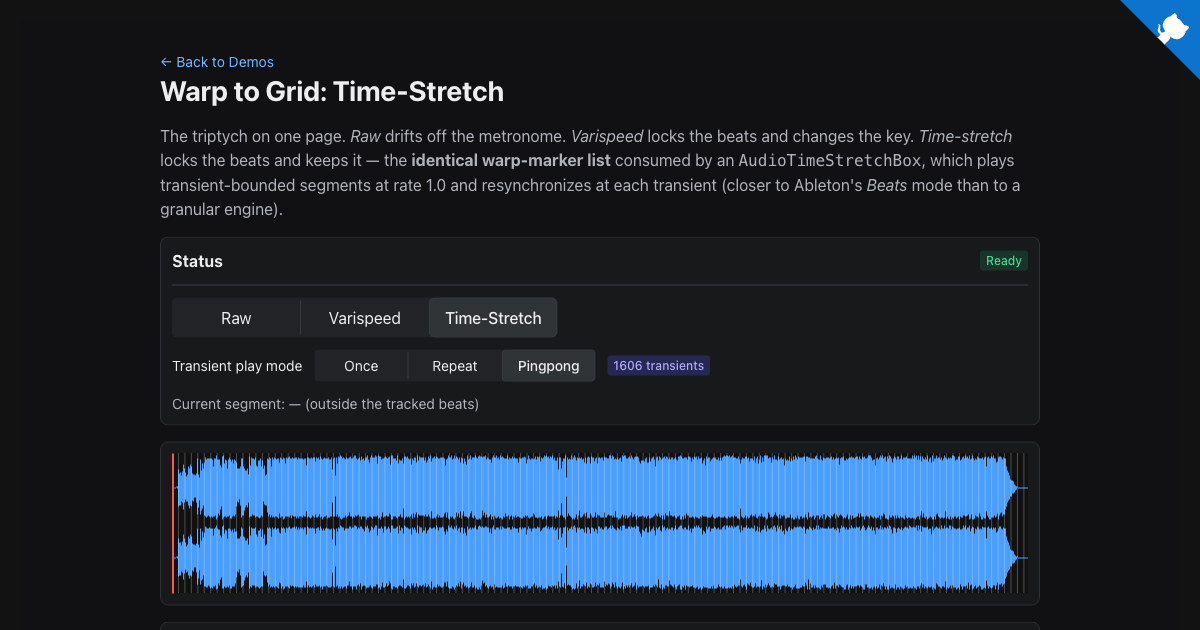
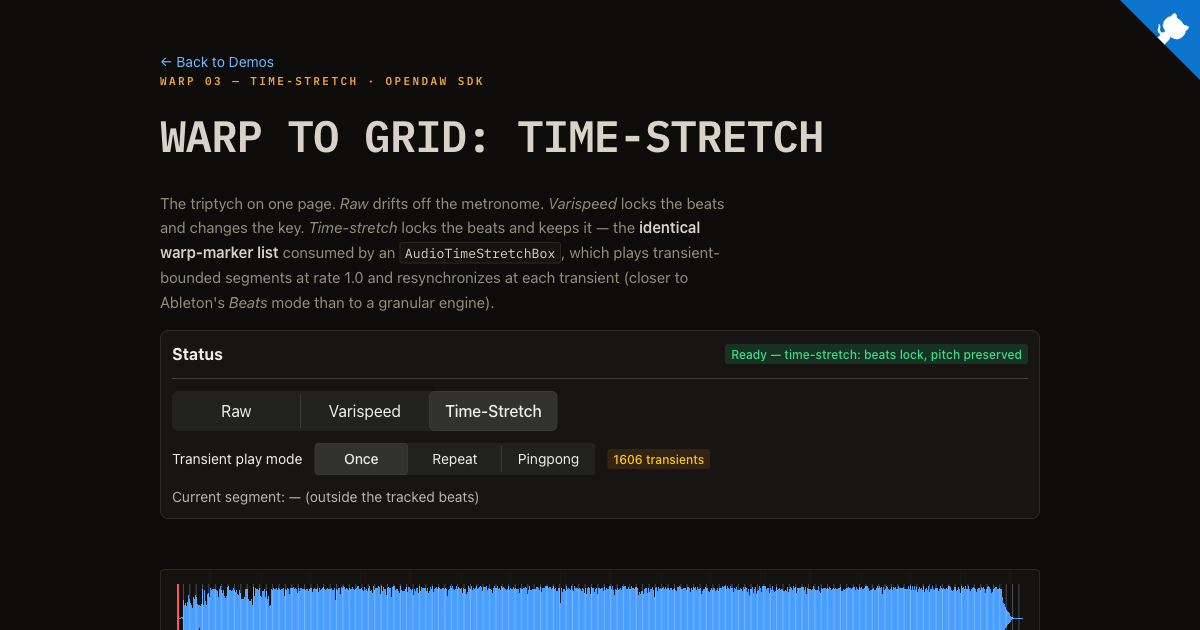
feat: apply mastering-console design to timestretch demo (wave 1)

Changed region(s): [[0.1233, 0.1206, 0.8633, 0.6937], [0.1233, 0.6937, 0.8633, 1.0], [0.8017, 0.3921, 0.8633, 0.4524]]

diff --git a/src/demos/warp/warp-timestretch-demo.tsx b/src/demos/warp/warp-timestretch-demo.tsx
@@ -39,9 +39,9 @@ import {
   Badge,
   Separator,
   SegmentedControl,
-  Link,
   Button,
 } from "@radix-ui/themes";
+import { CONSOLE_STYLES } from "@/lib/design/consoleTheme";
 
 const QUARTER = PPQN.Quarter; // 960
 const BAR = PPQN.fromSignature(4, 4); // 3840
@@ -248,13 +248,15 @@ function WarpTimestretchDemo() {
   }, [setup]);
 
   return (
-    <Theme appearance="dark" accentColor="iris">
+    <Theme appearance="dark" accentColor="amber" style={{ background: "var(--mc-bg)" }}>
+      <style>{CONSOLE_STYLES}</style>
       <Container size="3" py="6">
         <GitHubCorner />
         <BackLink />
         <Flex direction="column" gap="4">
-          <Heading size="7">Warp to Grid: Time-Stretch</Heading>
-          <Text color="gray">
+          <div className="mc-kicker">Warp 03 — Time-Stretch · OpenDAW SDK</div>
+          <h1 className="mc-title" style={{ fontSize: "clamp(28px, 4.5vw, 44px)" }}>WARP TO GRID: TIME-STRETCH</h1>
+          <p className="mc-intro">
             The triptych on one page. <em>Raw</em> drifts off the metronome.{" "}
             <em>Varispeed</em> locks the beats and changes the key.{" "}
             <em>Time-stretch</em> locks the beats and keeps it — the{" "}
@@ -262,7 +264,7 @@ function WarpTimestretchDemo() {
             <code>AudioTimeStretchBox</code>, which plays transient-bounded segments at
             rate 1.0 and resynchronizes at each transient (closer to Ableton&apos;s{" "}
             <em>Beats</em> mode than to a granular engine).
-          </Text>
+          </p>
           {error && (
             <Card>
               <Text color="red">{error}</Text>
@@ -335,7 +337,7 @@ function WarpTimestretchDemo() {
             </Flex>
           </Card>
           {setup && (
-            <Card>
+            <div className="mc-lattice-frame">
               <WarpWaveform
                 project={setup.project}
                 fileUuid={setup.fileUuid}
@@ -345,7 +347,7 @@ function WarpTimestretchDemo() {
                 repaintKey={repaintKey}
                 onError={setError}
               />
-            </Card>
+            </div>
           )}
           <Card>
             <Flex direction="column" gap="3" p="3">
@@ -372,24 +374,22 @@ function WarpTimestretchDemo() {
               </Flex>
             </Flex>
           </Card>
-          <Card>
-            <Flex direction="column" gap="2">
-              <Heading size="4">The thesis (warp-markers ch 09)</Heading>
-              <Text size="2" color="gray">
-                The warp math does not change. The same anchors driving{" "}
-                <Link href="/warp-varispeed-demo.html">varispeed</Link> drive this engine
-                untouched — swapping the stretch algorithm never moves a marker, which is
-                why Ableton lets you change a clip&apos;s warp <em>mode</em> without touching
-                its warp <em>markers</em>. Honest limits apply: transients can smear or
-                double under heavy stretching, and extreme rates expose segment looping.
-                The third direction —{" "}
-                <Link href="/warp-grid-follows-file-demo.html">bend the grid instead</Link>{" "}
-                — costs no DSP at all. See the{" "}
-                <Link href="/warp-demos.html">warp overview</Link> for which DAWs use each
-                approach and who reaches for it.
-              </Text>
-            </Flex>
-          </Card>
+          <section className="mc-anchors">
+            <h2 className="mc-anchors-head">The thesis (warp-markers ch 09)</h2>
+            <p>
+              The warp math does not change. The same anchors driving{" "}
+              <a href="/warp-varispeed-demo.html">varispeed</a> drive this engine
+              untouched — swapping the stretch algorithm never moves a marker, which is
+              why Ableton lets you change a clip&apos;s warp <em>mode</em> without touching
+              its warp <em>markers</em>. Honest limits apply: transients can smear or
+              double under heavy stretching, and extreme rates expose segment looping.
+              The third direction —{" "}
+              <a href="/warp-grid-follows-file-demo.html">bend the grid instead</a>{" "}
+              — costs no DSP at all. See the{" "}
+              <a href="/warp-demos.html">warp overview</a> for which DAWs use each
+              approach and who reaches for it.
+            </p>
+          </section>
           <MoisesLogo />
         </Flex>
       </Container>

diff --git a/warp-timestretch-demo.html b/warp-timestretch-demo.html
@@ -10,7 +10,7 @@
     <meta name="description" content="The warp triptych audible on one page: raw drifts, varispeed locks beats but detunes, time-stretch locks beats with pitch preserved — the identical warp markers through OpenDAW's transient-aware stretch engine." />
     <meta name="keywords" content="OpenDAW, beat map, warp markers, time stretch, transient detection, pitch preservation, web audio, DAW" />
     <meta name="author" content="Moises AI" />
-    <meta name="theme-color" content="#5B5BD6" />
+    <meta name="theme-color" content="#e8a33d" />
 
     <!-- Canonical URL -->
     <link rel="canonical" href="https://opendaw-test.pages.dev/warp-timestretch-demo.html" />
@@ -32,11 +32,17 @@
     <meta name="twitter:image" content="https://opendaw-test.pages.dev/og-image-warp-timestretch.png" />
 
     <link rel="icon" type="image/svg+xml" href="/favicon.svg"/>
+    <!-- crossorigin required: the dev server is COOP/COEP cross-origin isolated -->
+    <link rel="preconnect" href="https://fonts.googleapis.com" crossorigin/>
+    <link rel="preconnect" href="https://fonts.gstatic.com" crossorigin/>
+    <link rel="stylesheet" crossorigin
+          href="https://fonts.googleapis.com/css2?family=IBM+Plex+Mono:wght@400;600&display=swap"/>
     <style>
         body {
             margin: 0;
             padding: 20px;
             min-height: 100vh;
+            background: #0d0c0a;
         }
     </style>
 </head>